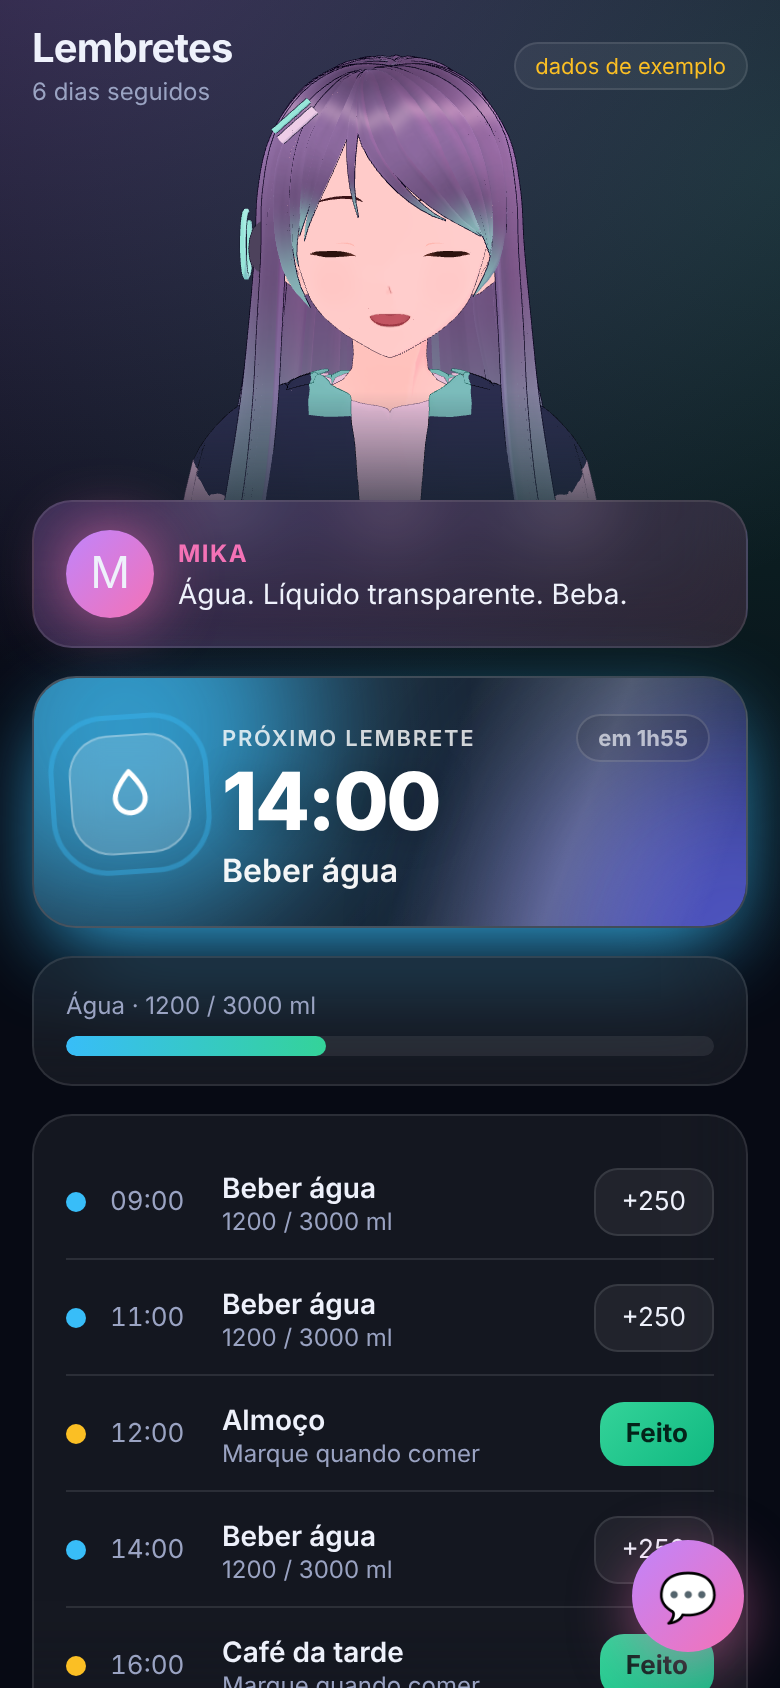
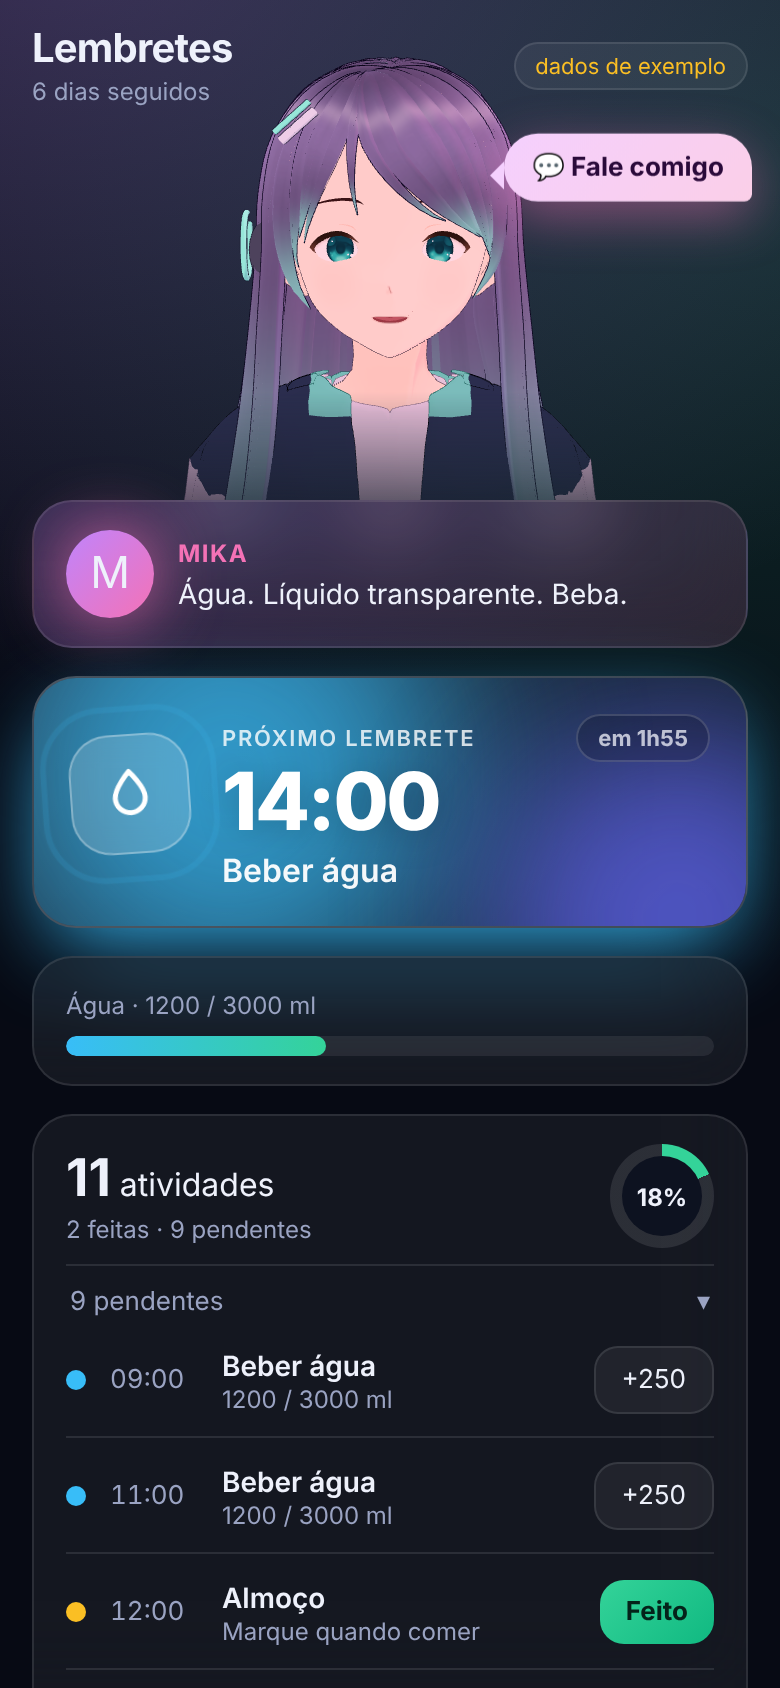
feat(lembretes): resumo do dia, ocultar pendentes e chat em balão da Mika
Claude-Session: https://claude.ai/code/session_01Cn6JQLKXu7PLS61LU6jjnp

diff --git a/lembretes/src/view.ts b/lembretes/src/view.ts
@@ -39,8 +39,12 @@ export function view(s: ViewState): string {
       <span class="eta">${eta(nxt.time, s.now)}</span></div>`
     : `<div class="next k-done"><span class="orb o1"></span><div class="ico">${icon('ficha').replace(/<path[^>]*>/, '<path d="M5 12.5l4.5 4.500L19 7.5"/>')}</div><div class="ntx"><small>Próximo lembrete</small><div class="n big">Tudo em dia hoje</div></div></div>`}
     <div class="glass"><div class="sub">Água · ${s.today.water.ml} / ${s.today.water.goalMl} ml</div><div class="bar"><i style="width:${pct}%"></i></div></div>
-    <div class="glass list">${todo.map((r, i) => row(r, i)).join('') || '<div class="sub">Nada pendente 🎉</div>'}
-      ${done.length ? `<button class="fold" data-fold aria-expanded="${!s.set.hideDone}"><span>${done.length} confirmados</span><i>▾</i></button>
+    <div class="glass list">
+      <div class="sum"><div><b>${list.length}</b> atividades<div class="sub">${done.length} feitas · ${todo.length} pendentes</div></div>
+        <div class="ring2" style="--p:${Math.round((done.length / list.length) * 100)}"><span>${Math.round((done.length / list.length) * 100)}%</span></div></div>
+      <button class="fold top" data-fold="hidePending" aria-expanded="${!s.set.hidePending}"><span>${todo.length} pendentes</span><i>▾</i></button>
+      <div class="drawer ${s.set.hidePending ? '' : 'open'}"><div>${todo.map((r, i) => row(r, i)).join('') || '<div class="sub pad">Nada pendente 🎉</div>'}</div></div>
+      ${done.length ? `<button class="fold" data-fold="hideDone" aria-expanded="${!s.set.hideDone}"><span>${done.length} confirmados</span><i>▾</i></button>
       <div class="drawer ${s.set.hideDone ? '' : 'open'}"><div>${done.map((r, i) => row(r, i)).join('')}</div></div>` : ''}</div>
     ${s.chatOpen ? `<div class="glass"><div class="chat">${msgs}</div><input id="msg" placeholder="Fale com a Mika…" /><div class="actions"><button class="ok" id="send">Enviar</button></div></div>` : ''}
     <details class="glass"><summary>Ajustes</summary>
@@ -49,5 +53,5 @@ export function view(s: ViewState): string {
       <input id="tok" type="password" placeholder="Token (DASHBOARD_TOKEN)" value="${esc(cfg?.token ?? '')}" />
       ${s.error ? `<div class="sub">⚠ ${esc(s.error)}</div>` : ''}
       <div class="actions"><button id="save" class="ok">Salvar</button><button id="reset">Usar exemplo</button><button id="notif">Testar 🔔</button></div></details>
-    <button class="fab" id="fab" aria-label="Falar com a Mika">💬</button></div>`;
+    <button class="bubble" id="fab" aria-label="Falar com a Mika">💬 Fale comigo</button></div>`;
 }

diff --git a/lembretes/src/style.css b/lembretes/src/style.css
@@ -67,3 +67,13 @@ body.nobg #mika-bg { opacity:0; }
 @keyframes bob { 50% { transform:translateY(-4px) rotate(-4deg); } } @keyframes ping { from { opacity:.9; transform:scale(1); } to { opacity:0; transform:scale(1.5); } }
 .ntx { flex:1; min-width:0; } .next small { opacity:.8; } .next .t { font-size:40px; color:#fff; text-shadow:0 2px 18px rgba(0,0,0,.25); } .next .n { color:#fff; opacity:.95; } .next .n.big { font-size:18px; margin-top:6px; }
 .eta { align-self:flex-start; font-size:11px; font-weight:700; padding:4px 10px; border-radius:99px; background:rgba(0,0,0,.28); border:1px solid rgba(255,255,255,.22); animation:blink 2.4s ease-in-out infinite; } @keyframes blink { 50% { opacity:.6; } }
+
+/* resumo do dia + balão da Mika */
+.sum { display:flex; justify-content:space-between; align-items:center; padding-bottom:8px; } .sum b { font-size:26px; font-family:inherit; } .sum .sub { margin-top:2px; }
+.ring2 { --p:0; width:52px; height:52px; border-radius:50%; display:grid; place-items:center; background:conic-gradient(var(--g) calc(var(--p) * 1%), rgba(255,255,255,.1) 0); transition:--p .6s; } .ring2 span { width:40px; height:40px; border-radius:50%; background:#0d1220; display:grid; place-items:center; font-size:12px; font-weight:700; }
+.fold.top { margin-top:0; border-top:1px solid var(--line); } .pad { padding:10px 2px; }
+.fab { display:none; }
+.bubble { position:fixed; top:70px; right:14px; z-index:5; display:flex; gap:6px; align-items:center; padding:9px 14px; border-radius:18px 18px 4px 18px; border:0; color:#2a0a3a; font-weight:700; font-size:13px; background:linear-gradient(135deg,#f5d0fe,#fbcfe8); box-shadow:0 8px 26px rgba(244,114,182,.45); animation:float 3.4s ease-in-out infinite; }
+.bubble::after { content:""; position:absolute; left:-7px; bottom:6px; border:7px solid transparent; border-right-color:#f5d0fe; border-left:0; }
+@keyframes float { 50% { transform:translateY(-5px); } } .bubble:active { transform:scale(.94); }
+body.widget .bubble { right:10px; }

diff --git a/lembretes/src/main.ts b/lembretes/src/main.ts
@@ -28,7 +28,8 @@ async function refresh(): Promise<void> {
 
 app.addEventListener('click', async (e) => {
   const el = e.target as HTMLElement;
-  if (el.closest('[data-fold]')) { st.set.hideDone = !st.set.hideDone; saveSettings(st.set); const b = el.closest('[data-fold]')!; b.setAttribute('aria-expanded', String(!st.set.hideDone)); b.nextElementSibling?.classList.toggle('open', !st.set.hideDone); }
+  const fold = el.closest<HTMLElement>('[data-fold]');
+  if (fold) { const k = fold.dataset.fold as 'hideDone' | 'hidePending'; st.set[k] = !st.set[k]; saveSettings(st.set); fold.setAttribute('aria-expanded', String(!st.set[k])); fold.nextElementSibling?.classList.toggle('open', !st.set[k]); }
   else if (el.dataset.habit) { await markHabit(el.dataset.habit, true); if (isMock()) st.today.habits[el.dataset.habit] = true; await refresh(); }
   else if (el.dataset.water) { await addWater(250); if (isMock()) st.today.water.ml += 250; await refresh(); }
   else if (el.id === 'save') { saveConfig({ baseUrl: val('url'), token: val('tok') }); await refresh(); }

diff --git a/lembretes/src/settings.ts b/lembretes/src/settings.ts
@@ -1,6 +1,6 @@
-export interface Settings { notif: boolean; audio: boolean; bg: boolean; hideDone: boolean }
+export interface Settings { notif: boolean; audio: boolean; bg: boolean; hideDone: boolean; hidePending: boolean }
 const KEY = 'qb.lembretes.settings';
-const DEF: Settings = { notif: true, audio: false, bg: true, hideDone: false };
+const DEF: Settings = { notif: true, audio: false, bg: true, hideDone: false, hidePending: false };
 
 export function loadSettings(): Settings {
   try { return { ...DEF, ...(JSON.parse(localStorage.getItem(KEY) ?? '{}') as Partial<Settings>) }; } catch { return { ...DEF }; }
